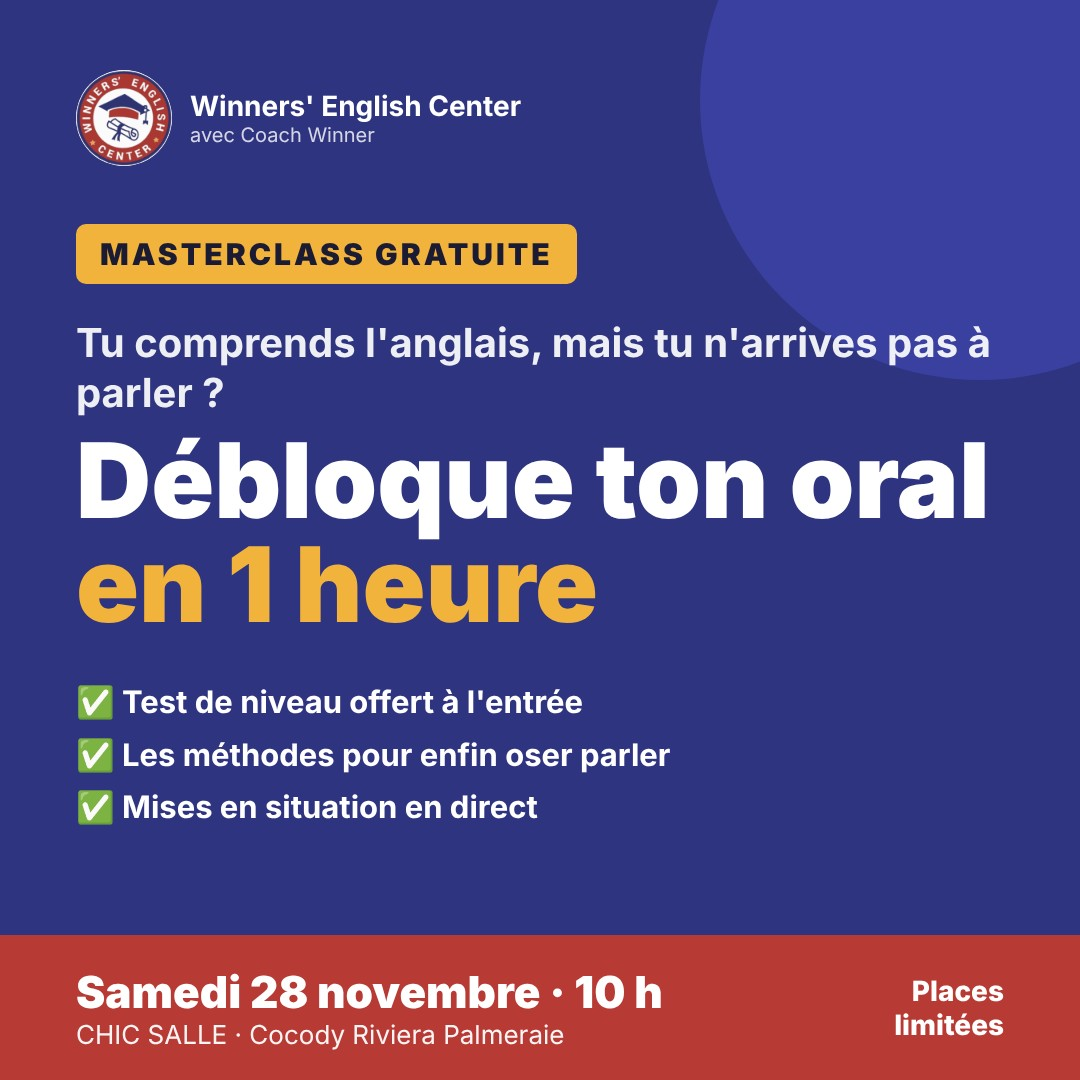
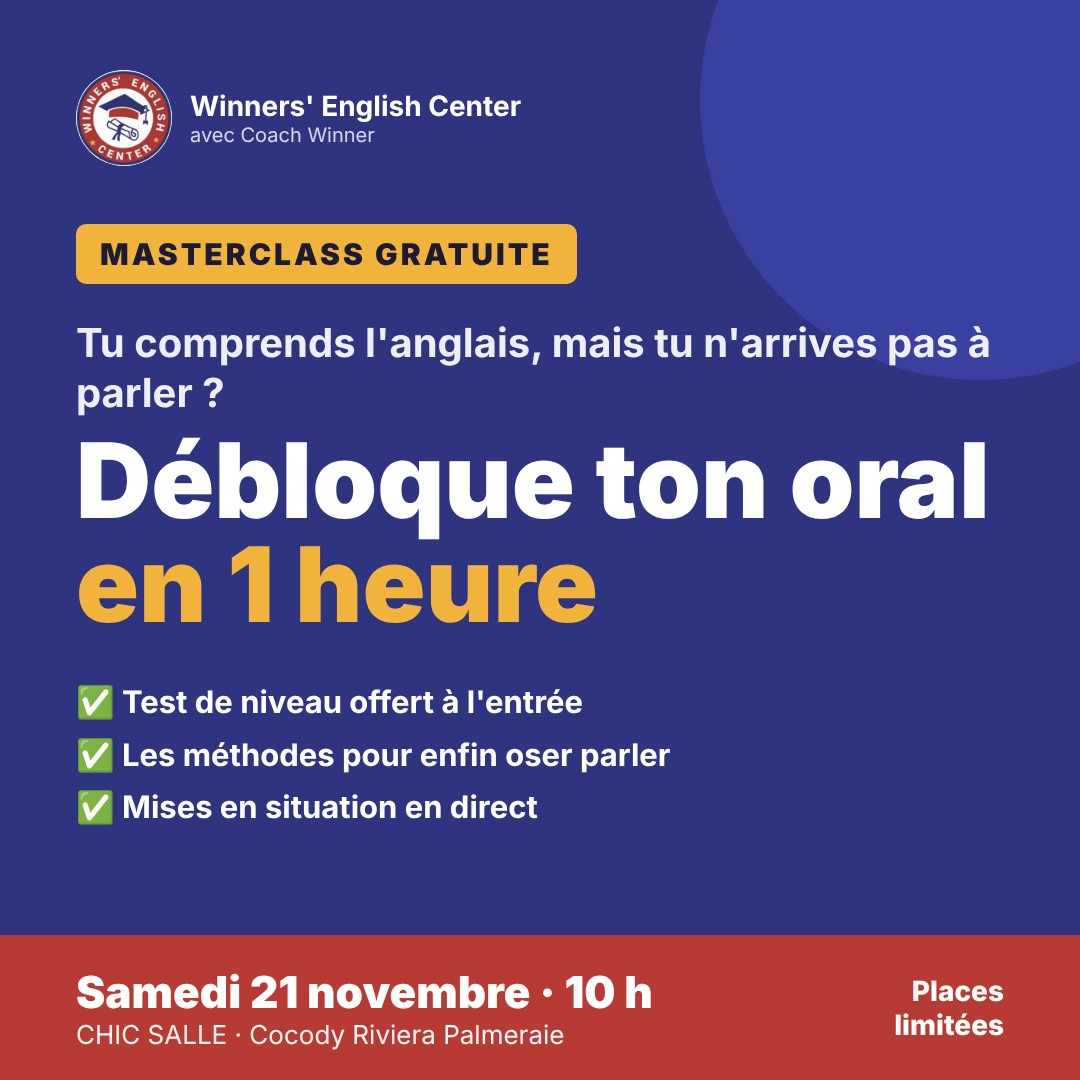
Masterclass le 21 novembre
Claude-Session: https://claude.ai/code/session_01RFv1fahLU5XSvBC829hEWp

Changed region(s): [[0.2444, 0.8861, 0.6111, 0.9472]]

diff --git a/index.html b/index.html
@@ -317,7 +317,7 @@ section.sec{padding-block:56px}@media(max-width:600px){section.sec{padding-block
 <script src="pub.js"></script>
 <script src="test.js"></script>
 <div id="app"></div>
-<script id="site-data" type="application/json">{"general": {"name": "Winners' English Center", "tagline": "Centre de formation en anglais", "logo": "site/img/16d24c4840.png", "whatsapp": "2250767037284", "whatsappDisplay": "+225 07 67 03 72 84", "phone": "+225 07 67 03 72 84 · +225 01 41 81 70 78", "email": "winnersenglish04@gmail.com", "address": "Cocody, Riviera Palmeraie, Abidjan, Côte d'Ivoire", "mapsUrl": "https://www.google.com/maps/search/?api=1&query=Winners%27+English+Center+Cocody+Riviera+Palmeraie", "siteUrl": "https://winnersenglishcenter.com/", "facebook": "https://www.facebook.com/108178682182393", "tiktok": "https://www.tiktok.com/@winnersenglish", "adminCode": "winners2026", "heroTitles": [["Parlez anglais avec confiance", "Speak English with confidence"], ["Osez prendre la parole", "Dare to speak up"], ["Votre anglais, votre avenir", "Your English, your future"]], "heroSubtitle": "Cours en groupe, en privé, en ligne ou à domicile, du niveau A1 au C2. Une méthode basée sur la pratique orale, pour enfin parler et pas seulement comprendre.", "heroImages": ["site/img/fb/cours_adultes.jpg", "site/img/fb/kids_groupe.jpg", "site/img/fb/banco.jpg", "g/groupe.jpg", "site/img/fb/groupe_tshirts.jpg"], "stats": [{"n": "929+", "l": "fans sur Facebook"}, {"n": "3 000+", "l": "abonnés TikTok"}, {"n": "30K+", "l": "j'aime sur TikTok"}, {"n": "A1 → C2", "l": "tous les niveaux"}]}, "gallery": [{"img": "site/img/fb/kids_cours.jpg", "caption": "Cours d'anglais pour enfants avec Coach Winner", "big": true}, {"img": "site/img/fb/adultes_dialogue.jpg", "caption": "Jeu de rôle : deux apprenants pratiquent un dialogue", "big": true}, {"img": "site/img/fb/coach_tableau.jpg", "caption": "Coach Winner explique la leçon au tableau numérique", "big": false}, {"img": "site/img/fb/kids_oral.jpg", "caption": "Les enfants prennent la parole en anglais", "big": false}, {"img": "site/img/fb/adultes_classe.jpg", "caption": "Cours adultes en petit groupe avec Coach Winner", "big": false}, {"img": "site/img/fb/apprenante.jpg", "caption": "Une apprenante en cours présentiel, avec son manuel B1-B2", "big": false}, {"img": "site/img/fb/adultes_test.jpg", "caption": "Test oral en groupe : « Discovering Canada »", "big": false}, {"img": "site/img/fb/kids_tableau.jpg", "caption": "Au tableau : on écrit et on parle en anglais", "big": false}, {"img": "site/img/fb/attestation.jpg", "caption": "Remise d'attestation de fin de formation", "big": true}, {"img": "site/img/fb/adultes_explication.jpg", "caption": "Coach Winner explique la grammaire au tableau numérique", "big": false}, {"img": "site/img/fb/kids_coach_fille.jpg", "caption": "Une jeune apprenante avec Coach Winner", "big": false}, {"img": "site/img/fb/adultes_lecture.jpg", "caption": "Lecture et compréhension en classe", "big": false}, {"img": "site/img/fb/adultes_ecoute.jpg", "caption": "Activité d'écoute pendant le cours", "big": false}, {"img": "site/img/fb/classe_1.jpg", "caption": "Pratique de l'oral en classe", "big": false}, {"img": "g/aide.jpg", "caption": "Coach Winner aide une apprenante", "big": false}, {"img": "site/img/fb/coach_studio.jpg", "caption": "Coach Winner prépare les cours en ligne", "big": false}, {"img": "g/coulisses.jpg", "caption": "Dans les coulisses du centre", "big": false}], "videos": [{"title": "Une jeune apprenante se présente en anglais devant la classe", "url": "v/kids_1.mp4", "cover": "v/kids_1.jpg"}, {"title": "À son tour, un jeune apprenant se présente en anglais", "url": "v/kids_2.mp4", "cover": "v/kids_2.jpg"}, {"title": "Practice time : deux apprenantes en jeu de rôle devant le groupe", "url": "v/practice.mp4", "cover": "v/practice.jpg"}, {"title": "Un apprenant se présente en anglais", "url": "v/intro_apprenant.mp4", "cover": "v/intro_apprenant.jpg"}, {"title": "Shadowing en groupe : on écoute, on répète, on imite", "url": "v/shadowing_hd.mp4", "cover": "v/shadowing_hd.jpg"}, {"title": "Un autre apprenant prend la parole en anglais", "url": "v/presentation.mp4", "cover": "v/presentation.jpg"}, {"title": "Une apprenante souhaite un joyeux anniversaire… en anglais !", "url": "v/birthday.mp4", "cover": "v/birthday.jpg"}, {"title": "Un vrai cours au centre, en petit groupe", "url": "v/cours_groupe.mp4", "cover": "v/cours_groupe.jpg"}, {"title": "Cours en pleine forêt au Parc du Banco", "url": "v/banco.mp4", "cover": "v/banco.jpg"}], "services": [{"icon": "👥", "title": "Cours en groupe", "desc": "Des petits groupes par niveau, pour pratiquer l'oral avec d'autres apprenants motivés."}, {"icon": "🎯", "title": "Cours privés", "desc": "Un programme sur mesure, à votre rythme, centré sur vos objectifs : travail, voyage, examen."}, {"icon": "💻", "title": "Cours en ligne", "desc": "Les mêmes cours en visioconférence, où que vous soyez en Côte d'Ivoire ou à l'étranger."}, {"icon": "🏠", "title": "Cours à domicile", "desc": "Le formateur se déplace chez vous, pour adultes comme pour enfants."}, {"icon": "🧒", "title": "Répétiteurs pour enfants", "desc": "Des répétiteurs à domicile pour accompagner vos enfants en anglais, du primaire à la terminale."}, {"icon": "📄", "title": "Traduction de documents", "desc": "Traduction français ↔ anglais de vos documents administratifs, académiques et professionnels."}, {"icon": "🎙", "title": "Interprétariat", "desc": "Un interprète pour vos réunions, rendez-vous d'affaires et événements."}, {"icon": "🤝", "title": "Escorte bilingue", "desc": "Un accompagnateur bilingue pour vos visiteurs anglophones, dans leurs démarches et déplacements."}], "founder": {"name": "Guy Boris Douka", "role": "Fondateur et formateur, « Coach Winner »", "photos": ["site/img/fb/fondateur.jpg"], "desc": "Fondateur de Winners' English Center à Cocody, Guy Boris Douka, alias Coach Winner, accompagne enfants, étudiants et professionnels vers un anglais qu'ils osent parler. Sa conviction : une langue s'apprend en la pratiquant, chaque jour, sans peur de se tromper.", "skills": ["Anglais général", "Anglais professionnel", "Préparation à l'oral", "Traduction", "Interprétariat", "Pédagogie enfants"], "articles": [], "extraPhotos": []}, "testimonials": [], "courses": [], "specialFeatured": {}, "specials": [{"title": "Masterclass gratuite : Débloque ton oral en 1 heure", "slug": "masterclass-oral", "audience": "Ados et adultes · Tous niveaux · Gratuit", "tag": "28 novembre", "cover": "site/img/prog_masterclass_oral.jpg", "desc": "Tu comprends l'anglais, mais dès qu'il faut parler, tu bloques ? Cette masterclass est faite pour toi.\nSamedi 28 novembre de 10 h à 11 h 30, à CHIC SALLE, Cocody Riviera Palmeraie (accueil dès 9 h 30). Également en direct sur la page Facebook.\n\n✅ Un test de niveau offert à l'entrée, avec ton résultat le jour même\n✅ Pourquoi tu bloques à l'oral, et comment t'en sortir\n✅ Les méthodes simples pour enfin oser parler\n✅ Des mises en situation en direct avec des volontaires\n✅ Se présenter en anglais en 1 minute (utile pour un entretien)\n✅ Une offre spéciale réservée aux participants\n\n⏳ Places limitées en salle : réserve la tienne.", "price": "Entrée gratuite, sur réservation", "date": "2026-11-05", "inscription": "https://wa.me/2250767037284?text=Bonjour%20Coach%20Winner%2C%20je%20r%C3%A9serve%20ma%20place%20pour%20la%20masterclass%20du%2028%20novembre.%20Mon%20nom%20%3A%20"}, {"title": "Speaking Weekend", "slug": "speaking-weekend", "audience": "Ados et adultes · 100 % en ligne", "tag": "Nouveau", "cover": "site/img/prog_speaking_weekend.jpg", "desc": "Tu comprends l'anglais mais tu bloques dès qu'il faut parler ? Chaque samedi de 19 h à 20 h 30, sur Google Meet, on pratique l'oral en petits groupes avec Coach Winner : discussions, jeux de rôle, débats sur la vie réelle. Idéal si tu travailles toute la semaine. 1re séance le samedi 14 novembre. Offert aux élèves de la Promo Anglais Noël.", "price": "10 000 F par mois (4 séances)", "date": "2026-11-03", "inscription": "https://docs.google.com/forms/d/e/1FAIpQLSesWfZ3C3tI3VC3vyurEbz_ASMHTTXm889D19DENrqoynH3ww/viewform"}, {"title": "30 jours d'écoute anglophone", "slug": "30-jours-ecoute", "audience": "Ados et adultes · 3 niveaux", "tag": "1er décembre", "cover": "site/img/prog_30_jours_ecoute.jpg", "desc": "Tu comprends mal quand un anglophone parle vite ? En 30 jours, habitue ton oreille à l'anglais parlé, à ton rythme.\nDémarrage officiel le 1er décembre. Ensuite, le programme reste ouvert : tu t'inscris et tu commences quand tu veux.\n\n✅ 1 audio + 1 PDF d'exercices par jour, sur l'appli et le site\n✅ + 30 audios bonus\n✅ 3 niveaux : Beginner, Intermédiaire, Avancé (un petit test pour entrer en Intermédiaire ou en Avancé)\n✅ Un test d'écoute au début et à la fin, pour mesurer ton progrès\n✅ 4 rencontres par mois le week-end avec le Teacher : 1 au centre à Cocody, 3 en ligne\n✅ Un groupe WhatsApp par niveau\n✅ Une attestation de fin de programme\n✅ Un casque d'écoute offert, livré gratuitement partout à Abidjan (hors Abidjan : expédition à ta charge)\n\n⏳ 15 places seulement par niveau.", "price": "20 000 F tout compris, en une fois", "date": "2026-11-04", "inscription": "https://docs.google.com/forms/d/e/1FAIpQLScf80eHzwDchVrg7xzjeAd6VcAv2z98rPeVafTCCO3eAGJFsw/viewform"}, {"title": "English Club Meeting", "slug": "english-club-meeting", "audience": "Tous niveaux · Gratuit", "tag": "Gratuit", "cover": "site/img/prog_club.jpg", "desc": "Come. Practice. Connect. Des rencontres au centre pour parler anglais : discussions, jeux, activités, nouvelles amitiés. Venez, pratiquez, échangez et progressez !", "price": "Entrée gratuite", "date": "2026-10-04"}, {"title": "Anglais Vacances : adolescents", "slug": "anglais-vacances-ados", "audience": "Adolescents", "tag": "Vacances", "cover": "site/img/prog_vacances_ados.jpg", "desc": "Gagner en confiance en anglais avant la rentrée : 2 séances de 2 h par semaine, en présentiel ou en ligne, test de placement gratuit, séance de renforcement sur WhatsApp, supports audio, vidéo et PDF inclus.", "price": "30 000 F le programme", "date": "2026-10-03", "hideInGrid": true}, {"title": "Anglais Vacances : travailleurs & entrepreneurs", "slug": "anglais-vacances-pro", "audience": "Travailleurs, entrepreneurs", "tag": "Vacances", "cover": "site/img/prog_vacances_pro.jpg", "desc": "L'anglais qui ouvre les portes de votre carrière et de votre business : 2 séances de 2 h par semaine, présentiel ou en ligne, test de placement gratuit, supports inclus.", "price": "30 000 F le programme", "date": "2026-10-02", "hideInGrid": true}, {"title": "Webinaire : Je comprends l'anglais, mais je ne parle pas", "slug": "webinaire", "audience": "Tous niveaux · En ligne", "tag": "Gratuit", "cover": "site/img/prog_webinaire.jpg", "desc": "Comprendre ne suffit pas, il est temps d'oser parler. Un webinaire gratuit avec Coach Winner pour débloquer ta parole, réservé aux membres de la communauté English Lovers Club.", "price": "Gratuit", "date": "2026-10-01", "hideInGrid": true}, {"title": "Anglais pour enfants", "audience": "Enfants, du primaire au collège", "desc": "Cours d'anglais à domicile et au centre : jeux éducatifs, expression orale, vocabulaire, prononciation, confiance en soi.", "price": "", "date": "2026-08-25", "hideInGrid": true}, {"title": "Cours à domicile", "slug": "cours-a-domicile", "audience": "Enfants, du primaire à la Terminale", "desc": "WIN Cours à domicile : un répétiteur sérieux chez vous, toutes matières, partout à Abidjan. Tarif au mois, remplacement garanti si le répétiteur ne convient pas.", "price": "", "date": "2026-08-01", "hideInGrid": true}, {"title": "Traduction & interprétariat", "slug": "traduction-interpretariat", "audience": "Entreprises, particuliers", "desc": "Traduction français ↔ anglais de vos documents, interprète pour vos réunions, rendez-vous d'affaires et missions.", "price": "Sur devis", "date": "2026-07-01", "hideInGrid": true}, {"title": "Cours privés", "slug": "cours-prives", "audience": "Adultes, professionnels", "desc": "Un programme sur mesure, à votre rythme, au centre, en ligne ou à domicile : entretien, travail, voyage, examen.", "price": "", "date": "2026-07-02", "hideInGrid": true}], "shop": [{"title": "Le Pack Anglais à vie : payez une fois, apprenez pour toujours", "desc": "50 modules, 300 vidéos, 400 audios, 250 PDF, packs IELTS, TOEFL et TOEIC. Accès à vie, téléchargement immédiat.", "price": "4 900 F", "cover": "site/img/pack_4900.jpg", "payUrl": ""}, {"title": "Je comprends l'anglais, mais je ne parle pas", "desc": "Le guide pour enfin oser parler : débloquer la peur de l'erreur et passer de la compréhension à la parole.", "price": "2 300 F", "cover": "https://imagedelivery.net/putTOXENmIzOdWsdn4Z59Q/f01762c6-a976-4931-496d-24dd322e7a00/public", "payUrl": "https://winners-english-center-8.mymaketou.shop/fr/products/je-comprends-langlais-mais-je-ne-parle-pas-le-guide-pour-enfin-oser-parler"}, {"title": "L'anglais pour décrocher un emploi", "desc": "Ne perds plus une opportunité à cause de l'anglais : CV, entretien, phrases clés du monde du travail.", "price": "2 600 F", "cover": "https://imagedelivery.net/putTOXENmIzOdWsdn4Z59Q/d172d1d1-3f6b-41f1-625f-8872d90acd00/public", "payUrl": "https://winners-english-center-8.mymaketou.shop/fr/products/langlais-pour-decrocher-un-emploi"}, {"title": "Tenir une conversation en anglais", "desc": "Ne reste plus jamais sans mots face à un anglophone.", "price": "2 400 F", "cover": "https://imagedelivery.net/putTOXENmIzOdWsdn4Z59Q/a9f76ff4-c4c7-43e4-b394-248d79785c00/public", "payUrl": "https://winners-english-center-8.mymaketou.shop/fr/products/tenir-une-conversation-en-anglais-ne-reste-plus-jamais-sans-mots-face-a-un-anglophone"}, {"title": "L'anglais facile : de zéro à la conversation", "desc": "Étape par étape, avec des dialogues pratiques, à ton rythme.", "price": "2 200 F", "cover": "https://imagedelivery.net/putTOXENmIzOdWsdn4Z59Q/4fa4d981-ff7f-4140-3a6b-879073acfc00/public", "payUrl": "https://winners-english-center-8.mymaketou.shop/fr/products/langlais-facile-de-zero-a-la-conversation"}, {"title": "L'anglais du voyageur", "desc": "L'anglais essentiel pour voyager sans stress : aéroport, hôtel, restaurant, transports.", "price": "2 100 F", "cover": "https://imagedelivery.net/putTOXENmIzOdWsdn4Z59Q/88d1c575-462e-42b9-f081-b02610136300/public", "payUrl": "https://winners-english-center-8.mymaketou.shop/fr/products/langlais-du-voyageur"}, {"title": "Prépare ton oral d'anglais", "desc": "La méthode pour réussir n'importe quel oral d'anglais, du BEPC aux concours.", "price": "2 500 F", "cover": "https://imagedelivery.net/putTOXENmIzOdWsdn4Z59Q/1fa0bca4-95c1-40ed-95b0-61aaeecccb00/public", "payUrl": "https://winners-english-center-8.mymaketou.shop/fr/products/prepare-ton-oral-danglais-la-methode-pour-reussir-nimporte-quel-oral-danglais"}, {"title": "Maîtrisez la grammaire anglaise par la pratique", "desc": "Pratiquez régulièrement, progressez durablement.", "price": "2 400 F", "cover": "https://imagedelivery.net/putTOXENmIzOdWsdn4Z59Q/0f713d6c-d1bb-4065-9db9-95940eb4b000/public", "payUrl": "https://winners-english-center-8.mymaketou.shop/fr/products/maitrisez-la-grammaire-anglaise-par-la-pratique-pratiquez-regulierement-progressez-durablement"}, {"title": "Le passé en anglais : enfin maîtrisé", "desc": "Simple past, past continuous, present perfect : tout devient clair.", "price": "2 000 F", "cover": "https://imagedelivery.net/putTOXENmIzOdWsdn4Z59Q/a43a251a-29d9-4997-0eee-5b3cc0dfcd00/public", "payUrl": "https://winners-english-center-8.mymaketou.shop/fr/products/le-passe-en-anglais-enfin-maitrise-simple-past-past-continuous-present-perfect-tout-devient-clair"}, {"title": "Les expressions anglaises qui font la différence", "desc": "Parle comme un vrai anglophone, pas comme un manuel.", "price": "2 000 F", "cover": "https://imagedelivery.net/putTOXENmIzOdWsdn4Z59Q/3df67cc5-7506-445a-173a-0b042d827000/public", "payUrl": "https://winners-english-center-8.mymaketou.shop/fr/products/les-expressions-anglaises-qui-font-la-difference-parle-comme-un-vrai-anglophone-pas-comme-un-manuel"}, {"title": "Les faux amis en anglais", "desc": "Ces mots qui te trompent depuis toujours.", "price": "2 000 F", "cover": "https://imagedelivery.net/putTOXENmIzOdWsdn4Z59Q/2dcf96ee-80fa-4296-d0f5-3f0335d7c500/public", "payUrl": "https://winners-english-center-8.mymaketou.shop/fr/products/les-faux-amis-en-anglais-ces-mots-qui-te-trompent-depuis-toujours"}], "resources": [], "officialTests": [], "faq": [{"q": "Où se trouve le centre ?", "a": "À Cocody, Riviera Palmeraie (Abidjan). Écrivez-nous sur WhatsApp pour recevoir l'itinéraire exact."}, {"q": "Les cours sont-ils aussi en ligne ?", "a": "Oui. Tous nos programmes existent en présentiel et en ligne, avec le même formateur et le même suivi."}, {"q": "Combien coûte la Promo Anglais Noël ?", "a": "65 000 F au lieu de 95 000 F : 35 000 F à l'inscription, puis 30 000 F début décembre. Cours du 9 novembre au 24 décembre, inscriptions jusqu'au 8 novembre."}, {"q": "Comment payer ?", "a": "Par Mobile Money au 07 67 03 72 84 ou au 01 41 81 70 78, ou par virement bancaire (Djamo, au nom de Guy Boris Douka) sur le compte CI201 01001 111607555481 35. Envoyez ensuite la capture ou le reçu du paiement sur WhatsApp."}, {"q": "Proposez-vous des cours pour enfants ?", "a": "Oui : cours d'anglais pour enfants au centre ou à domicile, et répétiteurs du primaire à la terminale."}, {"q": "C'est quoi le Speaking Weekend ?", "a": "Une séance de pratique orale en ligne, chaque samedi de 19 h à 20 h 30 sur Google Meet, en petits groupes avec Coach Winner. 10 000 F par mois pour 4 séances, offert aux élèves de la Promo Anglais Noël. 1re séance le samedi 14 novembre."}, {"q": "Comment connaître mon niveau ?", "a": "Faites le test de niveau gratuit sur cette page : 20 questions, résultat immédiat (A1, A2, B1 ou B2+)."}, {"q": "C'est quoi les 30 jours d'écoute anglophone ?", "a": "Un programme pour habituer ton oreille à l'anglais parlé : chaque jour un audio et un PDF d'exercices sur l'appli et le site, 30 audios bonus, 4 rencontres par mois le week-end avec le Teacher (1 au centre, 3 en ligne), un groupe WhatsApp par niveau, un test d'écoute au début et à la fin, une attestation et un casque offert (livraison gratuite à Abidjan). 3 niveaux, 15 places par niveau. Démarrage officiel le 1er décembre, puis inscriptions ouvertes en continu. 20 000 F tout compris, en une fois."}, {"q": "Faites-vous de la traduction ?", "a": "Oui : traduction de documents, interprétariat et escorte bilingue. Envoyez-nous votre demande sur WhatsApp."}, {"q": "Comment s'inscrire ?", "a": "Le plus simple : écrivez-nous sur WhatsApp au +225 07 67 03 72 84. Nous vous répondons rapidement."}]}</script>
+<script id="site-data" type="application/json">{"general": {"name": "Winners' English Center", "tagline": "Centre de formation en anglais", "logo": "site/img/16d24c4840.png", "whatsapp": "2250767037284", "whatsappDisplay": "+225 07 67 03 72 84", "phone": "+225 07 67 03 72 84 · +225 01 41 81 70 78", "email": "winnersenglish04@gmail.com", "address": "Cocody, Riviera Palmeraie, Abidjan, Côte d'Ivoire", "mapsUrl": "https://www.google.com/maps/search/?api=1&query=Winners%27+English+Center+Cocody+Riviera+Palmeraie", "siteUrl": "https://winnersenglishcenter.com/", "facebook": "https://www.facebook.com/108178682182393", "tiktok": "https://www.tiktok.com/@winnersenglish", "adminCode": "winners2026", "heroTitles": [["Parlez anglais avec confiance", "Speak English with confidence"], ["Osez prendre la parole", "Dare to speak up"], ["Votre anglais, votre avenir", "Your English, your future"]], "heroSubtitle": "Cours en groupe, en privé, en ligne ou à domicile, du niveau A1 au C2. Une méthode basée sur la pratique orale, pour enfin parler et pas seulement comprendre.", "heroImages": ["site/img/fb/cours_adultes.jpg", "site/img/fb/kids_groupe.jpg", "site/img/fb/banco.jpg", "g/groupe.jpg", "site/img/fb/groupe_tshirts.jpg"], "stats": [{"n": "929+", "l": "fans sur Facebook"}, {"n": "3 000+", "l": "abonnés TikTok"}, {"n": "30K+", "l": "j'aime sur TikTok"}, {"n": "A1 → C2", "l": "tous les niveaux"}]}, "gallery": [{"img": "site/img/fb/kids_cours.jpg", "caption": "Cours d'anglais pour enfants avec Coach Winner", "big": true}, {"img": "site/img/fb/adultes_dialogue.jpg", "caption": "Jeu de rôle : deux apprenants pratiquent un dialogue", "big": true}, {"img": "site/img/fb/coach_tableau.jpg", "caption": "Coach Winner explique la leçon au tableau numérique", "big": false}, {"img": "site/img/fb/kids_oral.jpg", "caption": "Les enfants prennent la parole en anglais", "big": false}, {"img": "site/img/fb/adultes_classe.jpg", "caption": "Cours adultes en petit groupe avec Coach Winner", "big": false}, {"img": "site/img/fb/apprenante.jpg", "caption": "Une apprenante en cours présentiel, avec son manuel B1-B2", "big": false}, {"img": "site/img/fb/adultes_test.jpg", "caption": "Test oral en groupe : « Discovering Canada »", "big": false}, {"img": "site/img/fb/kids_tableau.jpg", "caption": "Au tableau : on écrit et on parle en anglais", "big": false}, {"img": "site/img/fb/attestation.jpg", "caption": "Remise d'attestation de fin de formation", "big": true}, {"img": "site/img/fb/adultes_explication.jpg", "caption": "Coach Winner explique la grammaire au tableau numérique", "big": false}, {"img": "site/img/fb/kids_coach_fille.jpg", "caption": "Une jeune apprenante avec Coach Winner", "big": false}, {"img": "site/img/fb/adultes_lecture.jpg", "caption": "Lecture et compréhension en classe", "big": false}, {"img": "site/img/fb/adultes_ecoute.jpg", "caption": "Activité d'écoute pendant le cours", "big": false}, {"img": "site/img/fb/classe_1.jpg", "caption": "Pratique de l'oral en classe", "big": false}, {"img": "g/aide.jpg", "caption": "Coach Winner aide une apprenante", "big": false}, {"img": "site/img/fb/coach_studio.jpg", "caption": "Coach Winner prépare les cours en ligne", "big": false}, {"img": "g/coulisses.jpg", "caption": "Dans les coulisses du centre", "big": false}], "videos": [{"title": "Une jeune apprenante se présente en anglais devant la classe", "url": "v/kids_1.mp4", "cover": "v/kids_1.jpg"}, {"title": "À son tour, un jeune apprenant se présente en anglais", "url": "v/kids_2.mp4", "cover": "v/kids_2.jpg"}, {"title": "Practice time : deux apprenantes en jeu de rôle devant le groupe", "url": "v/practice.mp4", "cover": "v/practice.jpg"}, {"title": "Un apprenant se présente en anglais", "url": "v/intro_apprenant.mp4", "cover": "v/intro_apprenant.jpg"}, {"title": "Shadowing en groupe : on écoute, on répète, on imite", "url": "v/shadowing_hd.mp4", "cover": "v/shadowing_hd.jpg"}, {"title": "Un autre apprenant prend la parole en anglais", "url": "v/presentation.mp4", "cover": "v/presentation.jpg"}, {"title": "Une apprenante souhaite un joyeux anniversaire… en anglais !", "url": "v/birthday.mp4", "cover": "v/birthday.jpg"}, {"title": "Un vrai cours au centre, en petit groupe", "url": "v/cours_groupe.mp4", "cover": "v/cours_groupe.jpg"}, {"title": "Cours en pleine forêt au Parc du Banco", "url": "v/banco.mp4", "cover": "v/banco.jpg"}], "services": [{"icon": "👥", "title": "Cours en groupe", "desc": "Des petits groupes par niveau, pour pratiquer l'oral avec d'autres apprenants motivés."}, {"icon": "🎯", "title": "Cours privés", "desc": "Un programme sur mesure, à votre rythme, centré sur vos objectifs : travail, voyage, examen."}, {"icon": "💻", "title": "Cours en ligne", "desc": "Les mêmes cours en visioconférence, où que vous soyez en Côte d'Ivoire ou à l'étranger."}, {"icon": "🏠", "title": "Cours à domicile", "desc": "Le formateur se déplace chez vous, pour adultes comme pour enfants."}, {"icon": "🧒", "title": "Répétiteurs pour enfants", "desc": "Des répétiteurs à domicile pour accompagner vos enfants en anglais, du primaire à la terminale."}, {"icon": "📄", "title": "Traduction de documents", "desc": "Traduction français ↔ anglais de vos documents administratifs, académiques et professionnels."}, {"icon": "🎙", "title": "Interprétariat", "desc": "Un interprète pour vos réunions, rendez-vous d'affaires et événements."}, {"icon": "🤝", "title": "Escorte bilingue", "desc": "Un accompagnateur bilingue pour vos visiteurs anglophones, dans leurs démarches et déplacements."}], "founder": {"name": "Guy Boris Douka", "role": "Fondateur et formateur, « Coach Winner »", "photos": ["site/img/fb/fondateur.jpg"], "desc": "Fondateur de Winners' English Center à Cocody, Guy Boris Douka, alias Coach Winner, accompagne enfants, étudiants et professionnels vers un anglais qu'ils osent parler. Sa conviction : une langue s'apprend en la pratiquant, chaque jour, sans peur de se tromper.", "skills": ["Anglais général", "Anglais professionnel", "Préparation à l'oral", "Traduction", "Interprétariat", "Pédagogie enfants"], "articles": [], "extraPhotos": []}, "testimonials": [], "courses": [], "specialFeatured": {}, "specials": [{"title": "Masterclass gratuite : Débloque ton oral en 1 heure", "slug": "masterclass-oral", "audience": "Ados et adultes · Tous niveaux · Gratuit", "tag": "21 novembre", "cover": "site/img/prog_masterclass_oral.jpg", "desc": "Tu comprends l'anglais, mais dès qu'il faut parler, tu bloques ? Cette masterclass est faite pour toi.\nSamedi 21 novembre de 10 h à 11 h 30, à CHIC SALLE, Cocody Riviera Palmeraie (accueil dès 9 h 30). Également en direct sur la page Facebook.\n\n✅ Un test de niveau offert à l'entrée, avec ton résultat le jour même\n✅ Pourquoi tu bloques à l'oral, et comment t'en sortir\n✅ Les méthodes simples pour enfin oser parler\n✅ Des mises en situation en direct avec des volontaires\n✅ Se présenter en anglais en 1 minute (utile pour un entretien)\n✅ Une offre spéciale réservée aux participants\n\n⏳ Places limitées en salle : réserve la tienne.", "price": "Entrée gratuite, sur réservation", "date": "2026-11-05", "inscription": "https://wa.me/2250767037284?text=Bonjour%20Coach%20Winner%2C%20je%20r%C3%A9serve%20ma%20place%20pour%20la%20masterclass%20du%2021%20novembre.%20Mon%20nom%20%3A%20"}, {"title": "Speaking Weekend", "slug": "speaking-weekend", "audience": "Ados et adultes · 100 % en ligne", "tag": "Nouveau", "cover": "site/img/prog_speaking_weekend.jpg", "desc": "Tu comprends l'anglais mais tu bloques dès qu'il faut parler ? Chaque samedi de 19 h à 20 h 30, sur Google Meet, on pratique l'oral en petits groupes avec Coach Winner : discussions, jeux de rôle, débats sur la vie réelle. Idéal si tu travailles toute la semaine. 1re séance le samedi 14 novembre. Offert aux élèves de la Promo Anglais Noël.", "price": "10 000 F par mois (4 séances)", "date": "2026-11-03", "inscription": "https://docs.google.com/forms/d/e/1FAIpQLSesWfZ3C3tI3VC3vyurEbz_ASMHTTXm889D19DENrqoynH3ww/viewform"}, {"title": "30 jours d'écoute anglophone", "slug": "30-jours-ecoute", "audience": "Ados et adultes · 3 niveaux", "tag": "1er décembre", "cover": "site/img/prog_30_jours_ecoute.jpg", "desc": "Tu comprends mal quand un anglophone parle vite ? En 30 jours, habitue ton oreille à l'anglais parlé, à ton rythme.\nDémarrage officiel le 1er décembre. Ensuite, le programme reste ouvert : tu t'inscris et tu commences quand tu veux.\n\n✅ 1 audio + 1 PDF d'exercices par jour, sur l'appli et le site\n✅ + 30 audios bonus\n✅ 3 niveaux : Beginner, Intermédiaire, Avancé (un petit test pour entrer en Intermédiaire ou en Avancé)\n✅ Un test d'écoute au début et à la fin, pour mesurer ton progrès\n✅ 4 rencontres par mois le week-end avec le Teacher : 1 au centre à Cocody, 3 en ligne\n✅ Un groupe WhatsApp par niveau\n✅ Une attestation de fin de programme\n✅ Un casque d'écoute offert, livré gratuitement partout à Abidjan (hors Abidjan : expédition à ta charge)\n\n⏳ 15 places seulement par niveau.", "price": "20 000 F tout compris, en une fois", "date": "2026-11-04", "inscription": "https://docs.google.com/forms/d/e/1FAIpQLScf80eHzwDchVrg7xzjeAd6VcAv2z98rPeVafTCCO3eAGJFsw/viewform"}, {"title": "English Club Meeting", "slug": "english-club-meeting", "audience": "Tous niveaux · Gratuit", "tag": "Gratuit", "cover": "site/img/prog_club.jpg", "desc": "Come. Practice. Connect. Des rencontres au centre pour parler anglais : discussions, jeux, activités, nouvelles amitiés. Venez, pratiquez, échangez et progressez !", "price": "Entrée gratuite", "date": "2026-10-04"}, {"title": "Anglais Vacances : adolescents", "slug": "anglais-vacances-ados", "audience": "Adolescents", "tag": "Vacances", "cover": "site/img/prog_vacances_ados.jpg", "desc": "Gagner en confiance en anglais avant la rentrée : 2 séances de 2 h par semaine, en présentiel ou en ligne, test de placement gratuit, séance de renforcement sur WhatsApp, supports audio, vidéo et PDF inclus.", "price": "30 000 F le programme", "date": "2026-10-03", "hideInGrid": true}, {"title": "Anglais Vacances : travailleurs & entrepreneurs", "slug": "anglais-vacances-pro", "audience": "Travailleurs, entrepreneurs", "tag": "Vacances", "cover": "site/img/prog_vacances_pro.jpg", "desc": "L'anglais qui ouvre les portes de votre carrière et de votre business : 2 séances de 2 h par semaine, présentiel ou en ligne, test de placement gratuit, supports inclus.", "price": "30 000 F le programme", "date": "2026-10-02", "hideInGrid": true}, {"title": "Webinaire : Je comprends l'anglais, mais je ne parle pas", "slug": "webinaire", "audience": "Tous niveaux · En ligne", "tag": "Gratuit", "cover": "site/img/prog_webinaire.jpg", "desc": "Comprendre ne suffit pas, il est temps d'oser parler. Un webinaire gratuit avec Coach Winner pour débloquer ta parole, réservé aux membres de la communauté English Lovers Club.", "price": "Gratuit", "date": "2026-10-01", "hideInGrid": true}, {"title": "Anglais pour enfants", "audience": "Enfants, du primaire au collège", "desc": "Cours d'anglais à domicile et au centre : jeux éducatifs, expression orale, vocabulaire, prononciation, confiance en soi.", "price": "", "date": "2026-08-25", "hideInGrid": true}, {"title": "Cours à domicile", "slug": "cours-a-domicile", "audience": "Enfants, du primaire à la Terminale", "desc": "WIN Cours à domicile : un répétiteur sérieux chez vous, toutes matières, partout à Abidjan. Tarif au mois, remplacement garanti si le répétiteur ne convient pas.", "price": "", "date": "2026-08-01", "hideInGrid": true}, {"title": "Traduction & interprétariat", "slug": "traduction-interpretariat", "audience": "Entreprises, particuliers", "desc": "Traduction français ↔ anglais de vos documents, interprète pour vos réunions, rendez-vous d'affaires et missions.", "price": "Sur devis", "date": "2026-07-01", "hideInGrid": true}, {"title": "Cours privés", "slug": "cours-prives", "audience": "Adultes, professionnels", "desc": "Un programme sur mesure, à votre rythme, au centre, en ligne ou à domicile : entretien, travail, voyage, examen.", "price": "", "date": "2026-07-02", "hideInGrid": true}], "shop": [{"title": "Le Pack Anglais à vie : payez une fois, apprenez pour toujours", "desc": "50 modules, 300 vidéos, 400 audios, 250 PDF, packs IELTS, TOEFL et TOEIC. Accès à vie, téléchargement immédiat.", "price": "4 900 F", "cover": "site/img/pack_4900.jpg", "payUrl": ""}, {"title": "Je comprends l'anglais, mais je ne parle pas", "desc": "Le guide pour enfin oser parler : débloquer la peur de l'erreur et passer de la compréhension à la parole.", "price": "2 300 F", "cover": "https://imagedelivery.net/putTOXENmIzOdWsdn4Z59Q/f01762c6-a976-4931-496d-24dd322e7a00/public", "payUrl": "https://winners-english-center-8.mymaketou.shop/fr/products/je-comprends-langlais-mais-je-ne-parle-pas-le-guide-pour-enfin-oser-parler"}, {"title": "L'anglais pour décrocher un emploi", "desc": "Ne perds plus une opportunité à cause de l'anglais : CV, entretien, phrases clés du monde du travail.", "price": "2 600 F", "cover": "https://imagedelivery.net/putTOXENmIzOdWsdn4Z59Q/d172d1d1-3f6b-41f1-625f-8872d90acd00/public", "payUrl": "https://winners-english-center-8.mymaketou.shop/fr/products/langlais-pour-decrocher-un-emploi"}, {"title": "Tenir une conversation en anglais", "desc": "Ne reste plus jamais sans mots face à un anglophone.", "price": "2 400 F", "cover": "https://imagedelivery.net/putTOXENmIzOdWsdn4Z59Q/a9f76ff4-c4c7-43e4-b394-248d79785c00/public", "payUrl": "https://winners-english-center-8.mymaketou.shop/fr/products/tenir-une-conversation-en-anglais-ne-reste-plus-jamais-sans-mots-face-a-un-anglophone"}, {"title": "L'anglais facile : de zéro à la conversation", "desc": "Étape par étape, avec des dialogues pratiques, à ton rythme.", "price": "2 200 F", "cover": "https://imagedelivery.net/putTOXENmIzOdWsdn4Z59Q/4fa4d981-ff7f-4140-3a6b-879073acfc00/public", "payUrl": "https://winners-english-center-8.mymaketou.shop/fr/products/langlais-facile-de-zero-a-la-conversation"}, {"title": "L'anglais du voyageur", "desc": "L'anglais essentiel pour voyager sans stress : aéroport, hôtel, restaurant, transports.", "price": "2 100 F", "cover": "https://imagedelivery.net/putTOXENmIzOdWsdn4Z59Q/88d1c575-462e-42b9-f081-b02610136300/public", "payUrl": "https://winners-english-center-8.mymaketou.shop/fr/products/langlais-du-voyageur"}, {"title": "Prépare ton oral d'anglais", "desc": "La méthode pour réussir n'importe quel oral d'anglais, du BEPC aux concours.", "price": "2 500 F", "cover": "https://imagedelivery.net/putTOXENmIzOdWsdn4Z59Q/1fa0bca4-95c1-40ed-95b0-61aaeecccb00/public", "payUrl": "https://winners-english-center-8.mymaketou.shop/fr/products/prepare-ton-oral-danglais-la-methode-pour-reussir-nimporte-quel-oral-danglais"}, {"title": "Maîtrisez la grammaire anglaise par la pratique", "desc": "Pratiquez régulièrement, progressez durablement.", "price": "2 400 F", "cover": "https://imagedelivery.net/putTOXENmIzOdWsdn4Z59Q/0f713d6c-d1bb-4065-9db9-95940eb4b000/public", "payUrl": "https://winners-english-center-8.mymaketou.shop/fr/products/maitrisez-la-grammaire-anglaise-par-la-pratique-pratiquez-regulierement-progressez-durablement"}, {"title": "Le passé en anglais : enfin maîtrisé", "desc": "Simple past, past continuous, present perfect : tout devient clair.", "price": "2 000 F", "cover": "https://imagedelivery.net/putTOXENmIzOdWsdn4Z59Q/a43a251a-29d9-4997-0eee-5b3cc0dfcd00/public", "payUrl": "https://winners-english-center-8.mymaketou.shop/fr/products/le-passe-en-anglais-enfin-maitrise-simple-past-past-continuous-present-perfect-tout-devient-clair"}, {"title": "Les expressions anglaises qui font la différence", "desc": "Parle comme un vrai anglophone, pas comme un manuel.", "price": "2 000 F", "cover": "https://imagedelivery.net/putTOXENmIzOdWsdn4Z59Q/3df67cc5-7506-445a-173a-0b042d827000/public", "payUrl": "https://winners-english-center-8.mymaketou.shop/fr/products/les-expressions-anglaises-qui-font-la-difference-parle-comme-un-vrai-anglophone-pas-comme-un-manuel"}, {"title": "Les faux amis en anglais", "desc": "Ces mots qui te trompent depuis toujours.", "price": "2 000 F", "cover": "https://imagedelivery.net/putTOXENmIzOdWsdn4Z59Q/2dcf96ee-80fa-4296-d0f5-3f0335d7c500/public", "payUrl": "https://winners-english-center-8.mymaketou.shop/fr/products/les-faux-amis-en-anglais-ces-mots-qui-te-trompent-depuis-toujours"}], "resources": [], "officialTests": [], "faq": [{"q": "Où se trouve le centre ?", "a": "À Cocody, Riviera Palmeraie (Abidjan). Écrivez-nous sur WhatsApp pour recevoir l'itinéraire exact."}, {"q": "Les cours sont-ils aussi en ligne ?", "a": "Oui. Tous nos programmes existent en présentiel et en ligne, avec le même formateur et le même suivi."}, {"q": "Combien coûte la Promo Anglais Noël ?", "a": "65 000 F au lieu de 95 000 F : 35 000 F à l'inscription, puis 30 000 F début décembre. Cours du 9 novembre au 24 décembre, inscriptions jusqu'au 8 novembre."}, {"q": "Comment payer ?", "a": "Par Mobile Money au 07 67 03 72 84 ou au 01 41 81 70 78, ou par virement bancaire (Djamo, au nom de Guy Boris Douka) sur le compte CI201 01001 111607555481 35. Envoyez ensuite la capture ou le reçu du paiement sur WhatsApp."}, {"q": "Proposez-vous des cours pour enfants ?", "a": "Oui : cours d'anglais pour enfants au centre ou à domicile, et répétiteurs du primaire à la terminale."}, {"q": "C'est quoi le Speaking Weekend ?", "a": "Une séance de pratique orale en ligne, chaque samedi de 19 h à 20 h 30 sur Google Meet, en petits groupes avec Coach Winner. 10 000 F par mois pour 4 séances, offert aux élèves de la Promo Anglais Noël. 1re séance le samedi 14 novembre."}, {"q": "Comment connaître mon niveau ?", "a": "Faites le test de niveau gratuit sur cette page : 20 questions, résultat immédiat (A1, A2, B1 ou B2+)."}, {"q": "C'est quoi les 30 jours d'écoute anglophone ?", "a": "Un programme pour habituer ton oreille à l'anglais parlé : chaque jour un audio et un PDF d'exercices sur l'appli et le site, 30 audios bonus, 4 rencontres par mois le week-end avec le Teacher (1 au centre, 3 en ligne), un groupe WhatsApp par niveau, un test d'écoute au début et à la fin, une attestation et un casque offert (livraison gratuite à Abidjan). 3 niveaux, 15 places par niveau. Démarrage officiel le 1er décembre, puis inscriptions ouvertes en continu. 20 000 F tout compris, en une fois."}, {"q": "Faites-vous de la traduction ?", "a": "Oui : traduction de documents, interprétariat et escorte bilingue. Envoyez-nous votre demande sur WhatsApp."}, {"q": "Comment s'inscrire ?", "a": "Le plus simple : écrivez-nous sur WhatsApp au +225 07 67 03 72 84. Nous vous répondons rapidement."}]}</script>
 <script id="site-app">
 (function(){
 "use strict";
